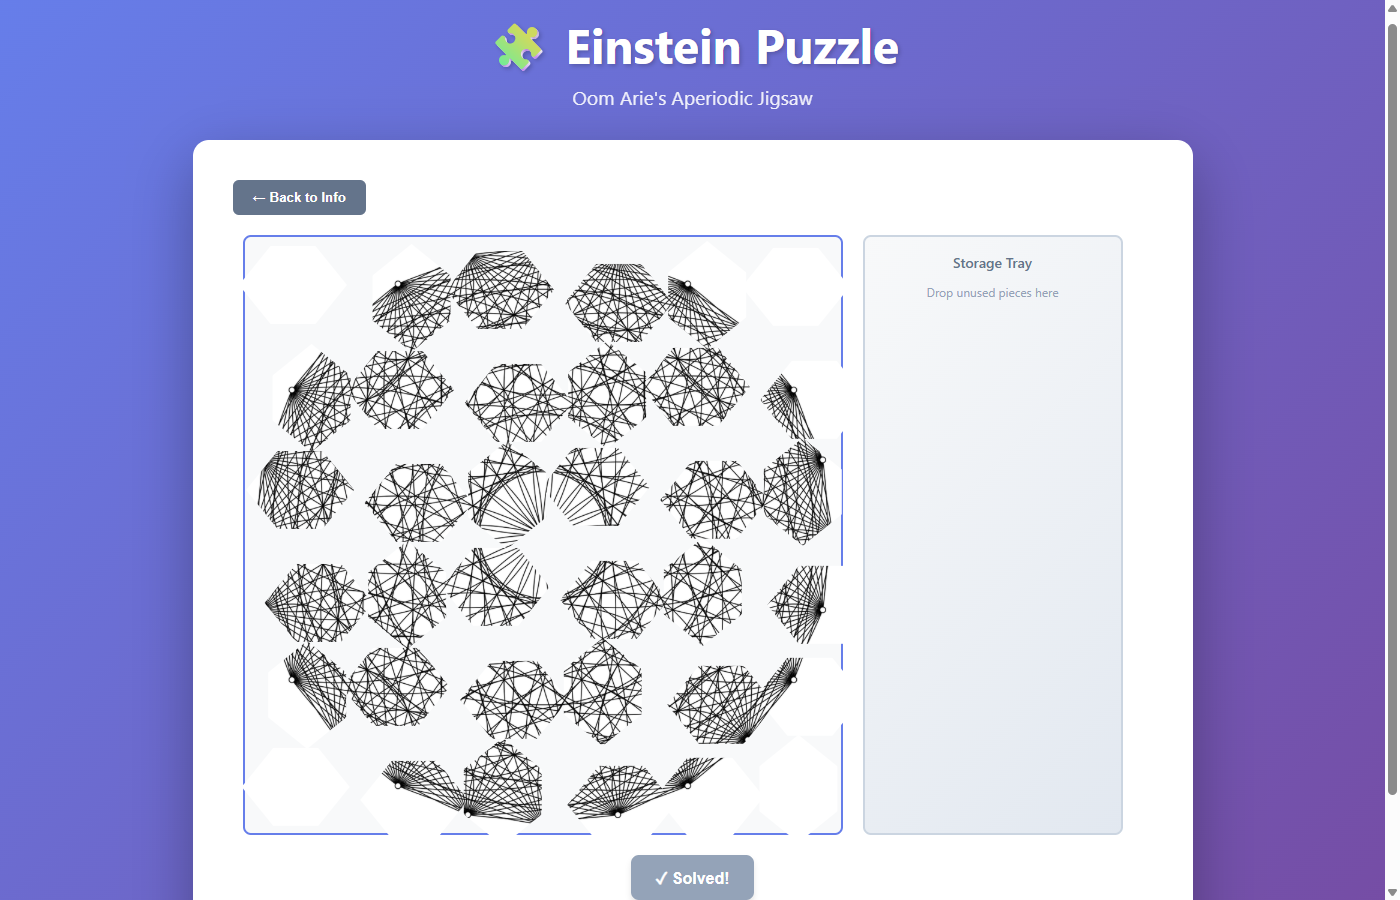
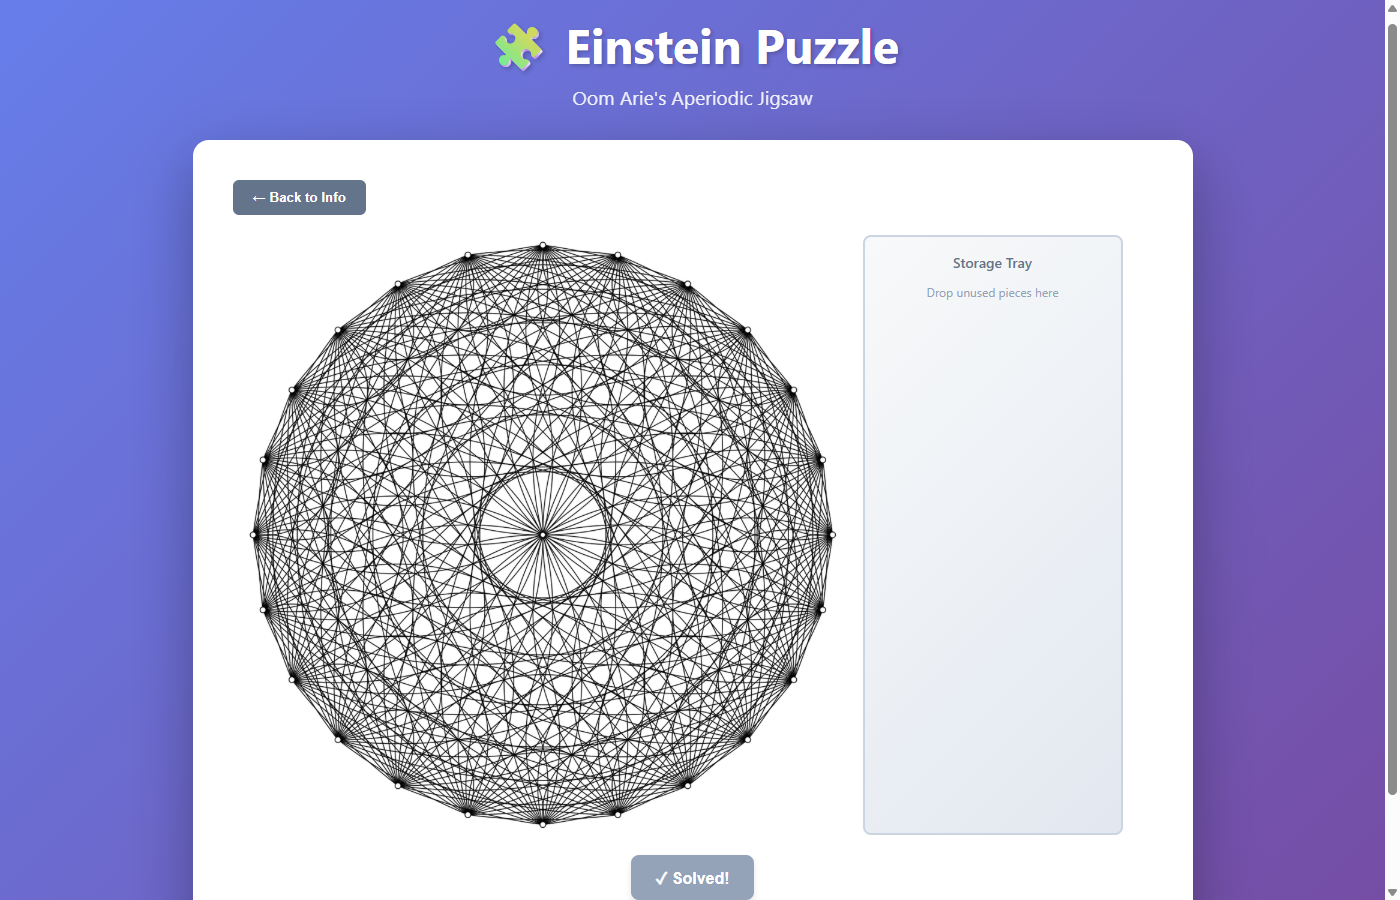
Working puzzle! Show full image with gaps for missing pieces
COMPLETE REWRITE of puzzle logic:

Before: Showed individual pieces scattered on board (wrong concept)
After: Show FULL background image with white gaps where pieces are missing

How it works:
- Display complete Oom Arie circle graph as background
- Overlay white polygons where pieces are missing (the gaps)
- Only render missing pieces as draggable pieces
- 5 pieces (indices 15-19) are removed and placed in tray
- When piece is placed back, it covers the white gap

This matches the correct jigsaw puzzle concept from the PDF example.

Demo: Circle graph with 5 missing pieces that need to be filled in.

Changed region(s): [[0.1536, 0.2489, 0.6143, 0.9333], [0.3071, 0.28, 0.3379, 0.3111]]

diff --git a/src/components/PuzzleBoard.tsx b/src/components/PuzzleBoard.tsx
@@ -9,12 +9,33 @@ interface PuzzleBoardProps {
 export function PuzzleBoard({ config, pieces: initialPieces }: PuzzleBoardProps) {
   const containerRef = useRef<HTMLDivElement>(null);
   const [pieces, setPieces] = useState(() => {
-    // Start pieces randomly scattered on the board
-    return initialPieces.map((piece) => ({
-      ...piece,
-      currentX: Math.random() * (config.canvasSize - 100) + 50,
-      currentY: Math.random() * (config.canvasSize - 100) + 50,
-    }));
+    // For now: put just 1 piece in the tray, rest are correctly placed
+    const trayX = config.canvasSize + 50;
+    const trayY = 100;
+
+    return initialPieces.map((piece, index) => {
+      // Remove 5 pieces from the middle area (indices 15-19)
+      // These are more likely to be on the interesting part of the circle
+      const missingPieceIndices = [15, 16, 17, 18, 19];
+
+      if (missingPieceIndices.includes(index)) {
+        // Place in tray, stacked vertically
+        const trayPosition = missingPieceIndices.indexOf(index);
+        return {
+          ...piece,
+          currentX: trayX + (trayPosition % 2) * 80,
+          currentY: trayY + Math.floor(trayPosition / 2) * 80,
+          isPlaced: false,
+        };
+      } else {
+        return {
+          ...piece,
+          currentX: piece.correctX,
+          currentY: piece.correctY,
+          isPlaced: true,
+        };
+      }
+    });
   });
   const [draggedPiece, setDraggedPiece] = useState<string | null>(null);
   const [offset, setOffset] = useState({ x: 0, y: 0 });
@@ -202,7 +223,27 @@ export function PuzzleBoard({ config, pieces: initialPieces }: PuzzleBoardProps)
             pointerEvents: 'all'
           }}
         >
-          {/* Always show puzzle pieces */}
+          {/* Show the FULL background image */}
+          <image
+            href={config.imageUrl}
+            width={config.canvasSize}
+            height={config.canvasSize}
+            x={0}
+            y={0}
+          />
+
+          {/* Show WHITE gaps where pieces are missing */}
+          {pieces.filter(p => !p.isPlaced).map(piece => (
+            <polygon
+              key={`gap-${piece.id}`}
+              points={piece.polygon.points.map(p => `${p.x},${p.y}`).join(' ')}
+              fill="white"
+              stroke="#cbd5e1"
+              strokeWidth={2}
+            />
+          ))}
+
+          {/* Show draggable pieces (only the ones NOT in correct position) */}
           <defs>
             {pieces.map(piece => (
               <clipPath key={`clip-${piece.id}`} id={`clip-${piece.id}`}>
@@ -211,7 +252,7 @@ export function PuzzleBoard({ config, pieces: initialPieces }: PuzzleBoardProps)
             ))}
           </defs>
 
-          {pieces.map(piece => (
+          {pieces.filter(p => !p.isPlaced).map(piece => (
             <g
               key={piece.id}
               transform={`translate(${piece.currentX - piece.correctX}, ${piece.currentY - piece.correctY})`}
@@ -226,17 +267,14 @@ export function PuzzleBoard({ config, pieces: initialPieces }: PuzzleBoardProps)
                 style={{ cursor: isSolved ? 'default' : 'move' }}
                 onMouseDown={(e) => !isSolved && handleMouseDown(e as unknown as React.MouseEvent, piece.id)}
               />
-              {/* Show borders when not solved */}
-              {!isSolved && (
-                <polygon
-                  points={piece.polygon.points.map(p => `${p.x},${p.y}`).join(' ')}
-                  fill="none"
-                  stroke={piece.isPlaced ? '#10b981' : '#667eea'}
-                  strokeWidth={piece.isPlaced ? 3 : 2}
-                  opacity={0.5}
-                  pointerEvents="none"
-                />
-              )}
+              <polygon
+                points={piece.polygon.points.map(p => `${p.x},${p.y}`).join(' ')}
+                fill="none"
+                stroke="#667eea"
+                strokeWidth={2}
+                opacity={0.5}
+                pointerEvents="none"
+              />
             </g>
           ))}
         </svg>
